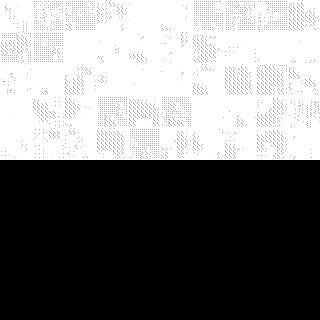
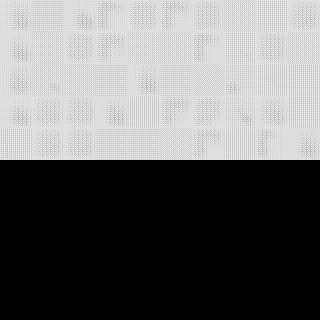
Adding relevant images

diff --git a/elements/dcgan32.py b/elements/dcgan32.py
@@ -144,7 +144,7 @@ class DCGAN():
 				kernel_size=[4,4], strides=[2,2], padding='SAME', activation=None,
 				kernel_initializer=self.initializer,
 				reuse=scope.reuse,name="conv_3")
-			return tf.nn.sigmoid(self.normalize(h5,axis=[1,2]))
+			return tf.nn.sigmoid(self.normalize(h5))
 
 	def discriminate(self, image, classes, scope):
 		with tf.device(self.device):
